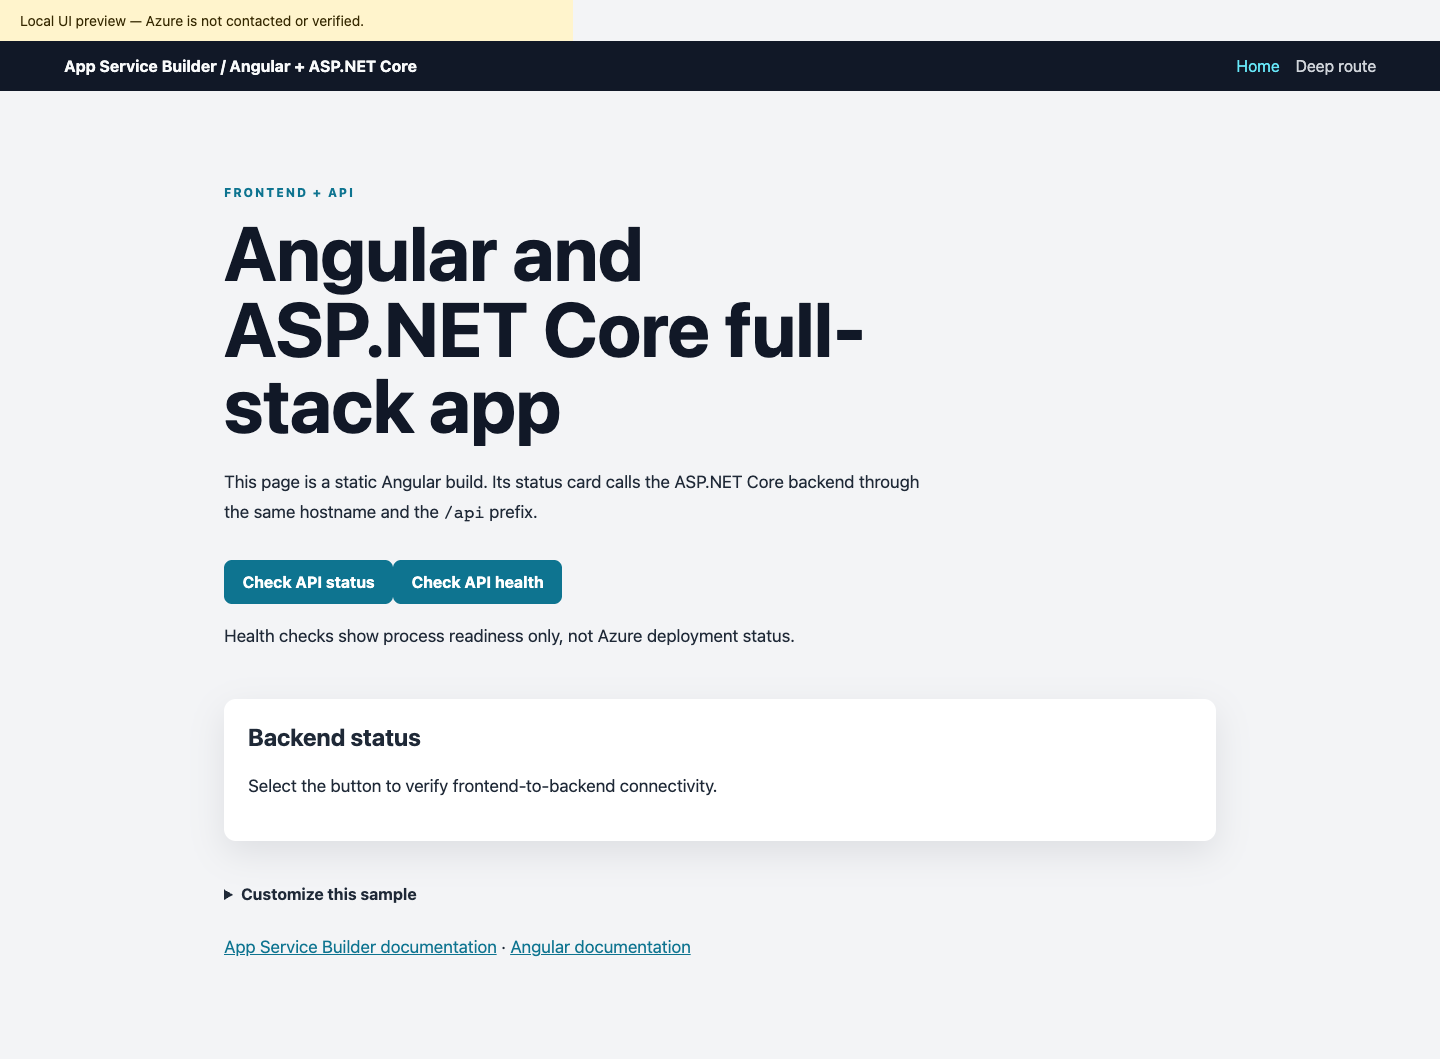
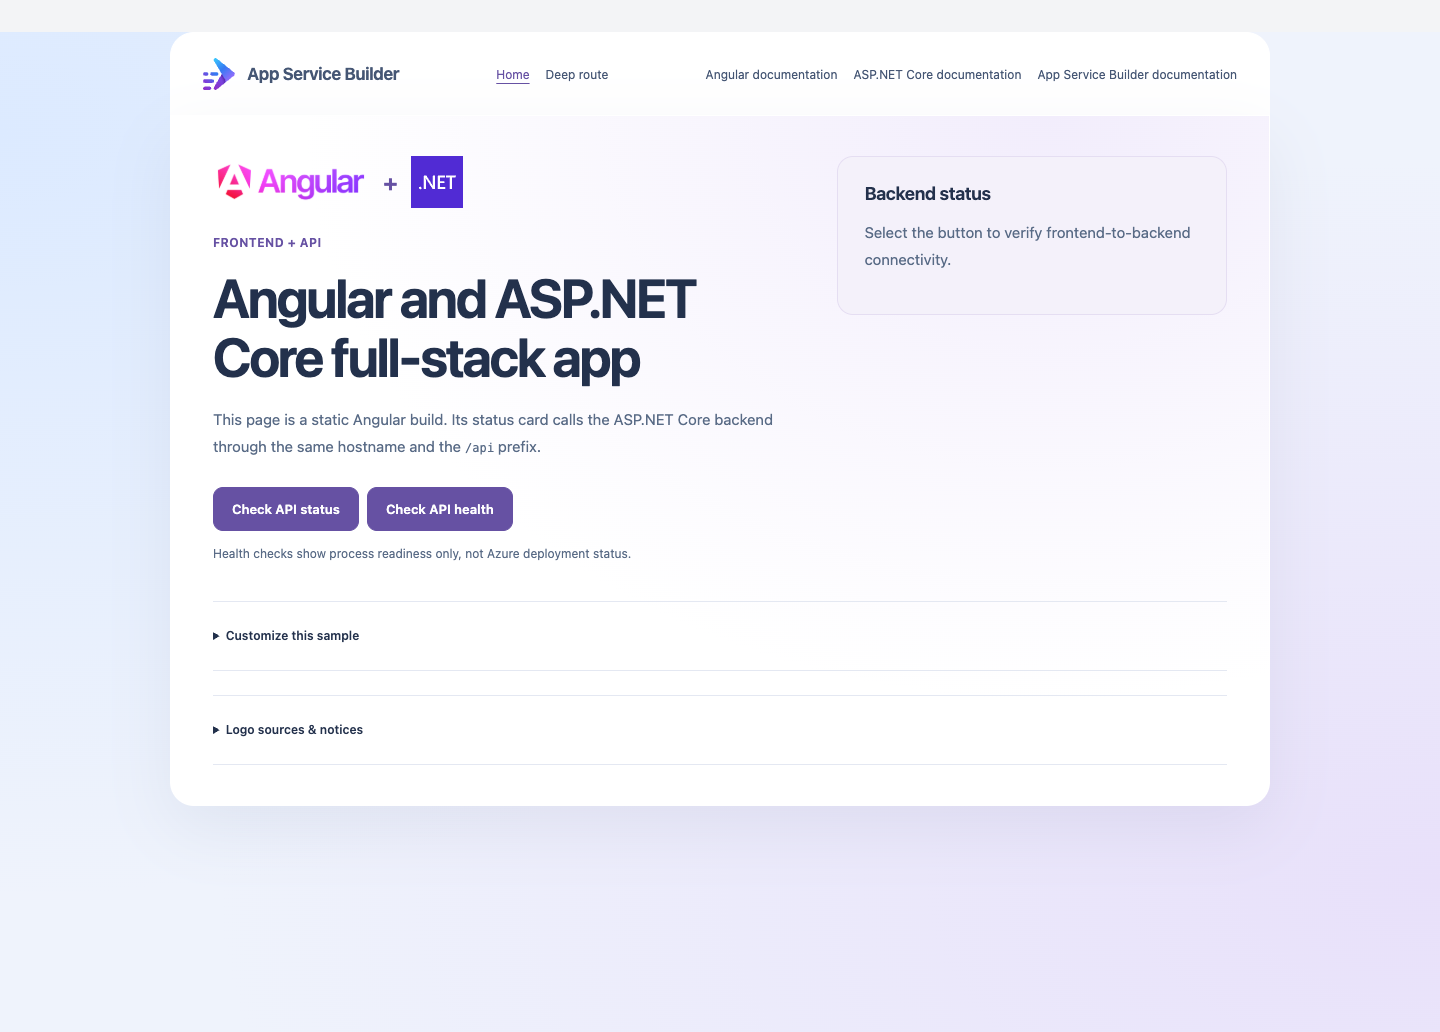
Apply approved language-family sample styling
Preserve sample interactions, inline health checks and honest customization guidance; refresh the locally rendered README screenshot.

diff --git a/web/public/brand/family.v1.css b/web/public/brand/family.v1.css
@@ -1,0 +1,40 @@
+html body{margin:0;min-height:100vh;background:radial-gradient(ellipse at 0 10%,#dceaff,transparent 60%),radial-gradient(ellipse at 100% 85%,#e8e0fa,transparent 60%),#eff3fc;color:#23314c;font-family:"Segoe UI",system-ui,sans-serif;font-size:15px;--accent:#6651a3;--line:#e4e8f2}
+app-root main.sample-sheet{width:min(1100px,calc(100% - 64px));margin:32px auto;padding:0;background:#fff;border:1px solid #ffffffbd;border-radius:0 0 24px 24px;box-shadow:0 22px 65px #3b487515;overflow:hidden}
+header.site-header.sample-header{width:min(1100px,calc(100% - 64px));margin:32px auto -33px;display:flex;align-items:center;justify-content:space-between;gap:24px;padding:25px 32px;border:1px solid #fff;border-bottom:1px solid var(--line);border-radius:24px 24px 0 0;background:#fff}
+.sample-brand{display:flex;align-items:center;gap:12px;font-size:17px;font-weight:650;letter-spacing:-.02em;color:#23314c;text-decoration:none}
+.sample-brand img{width:32px;height:32px;object-fit:contain}
+.sample-header nav{display:flex;flex-wrap:wrap;gap:16px;margin:0;font-size:12px}
+.sample-header a{color:#455674;text-underline-offset:4px}
+header.site-header.sample-header nav a{color:#455674}
+header.site-header.sample-header nav a:hover,header.site-header.sample-header nav a.active{color:var(--accent);text-decoration:underline}
+.sample-content{padding:40px 42px}
+.ecosystem-logo{display:flex;align-items:center;gap:14px;margin-bottom:24px;color:var(--accent);font-size:23px;font-weight:650;letter-spacing:-.03em}
+.ecosystem-logo img{width:52px;height:52px;object-fit:contain}
+.ecosystem-logo img.wordmark{width:156px}
+.sample-content h1{max-width:none;color:#23314c;font-size:clamp(32px,4.2vw,54px);line-height:1.1;letter-spacing:-.04em;font-weight:650;margin:0 0 20px;text-wrap:balance}
+.sample-content h2{font-size:18px;font-weight:650;letter-spacing:-.02em;margin:0 0 14px}
+.sample-content p{font-size:15px;line-height:1.8;color:#596b86}
+.sample-content .eyebrow{color:var(--accent);font-size:12px;font-weight:650;letter-spacing:.04em;margin:0 0 14px}
+.sample-content nav{display:flex;flex-wrap:wrap;align-items:center;gap:12px;margin:24px 0 16px}
+.sample-content a{color:var(--accent);text-underline-offset:4px}
+.sample-content button{min-height:44px;margin:12px 8px 0 0;padding:12px 18px;border:1px solid var(--accent);border-radius:10px;background:var(--accent);color:#fff;font:inherit;font-size:13px;font-weight:600;cursor:pointer}
+.sample-content button:hover{filter:brightness(.92);background:var(--accent)}
+.sample-content button:disabled{opacity:.6;cursor:wait}
+.sample-content dl{display:grid;gap:16px;margin:24px 0 0;padding-top:24px;border-top:1px solid var(--line);font-size:12px}
+.sample-content dl div{display:grid;grid-template-columns:90px 1fr;gap:16px}
+.sample-content dt{color:#435675;font-weight:600}
+.sample-content dd{margin:0;color:#62718a;overflow-wrap:anywhere}
+.sample-content details{margin-top:24px;padding:12px 0;border-block:1px solid var(--line);font-size:12px}
+.sample-content details p{font-size:12px}
+.sample-content summary{cursor:pointer;font-weight:600;min-height:44px;align-content:center}
+.sample-content code{font-size:12px;overflow-wrap:anywhere}
+.sample-content .documentation{font-size:12px;justify-content:space-between}
+a:focus-visible,button:focus-visible,summary:focus-visible{outline:3px solid #7660d0;outline-offset:4px}
+.sample-content{display:grid;grid-template-columns:minmax(0,1.2fr) minmax(0,.8fr);gap:0 40px;background:radial-gradient(ellipse at 80% 0,#f2edfc,transparent 60%),#fff}
+.sample-content app-home>.hero{grid-column:1}
+.sample-content>app-home{display:contents}
+.sample-content>router-outlet{display:none}
+.sample-content app-home>.status-card{grid-column:2;margin:0;padding:26px;background:#f4f1fa;border:1px solid #e5def2;border-radius:16px;box-shadow:none;align-self:start}
+.sample-content .hero>p[role=status]{font-size:12px}
+.sample-content app-home>details{grid-column:1/-1}
+@media(max-width:650px){app-root main.sample-sheet{width:calc(100% - 30px);margin:18px auto;border-radius:0 0 19px 19px}header.site-header.sample-header{width:calc(100% - 30px);margin:18px auto -19px;padding:22px;flex-wrap:wrap;gap:18px;border-radius:19px 19px 0 0}.sample-header nav{width:100%;gap:12px;font-size:11px}.sample-content{display:block;padding:32px 22px}.sample-content h1{font-size:36px}.sample-content dl div{grid-template-columns:1fr;gap:4px}.sample-content nav{align-items:stretch}.sample-content .documentation{gap:14px}.sample-content app-home>.status-card{margin:24px 0}.ecosystem-logo{flex-wrap:wrap}}

diff --git a/web/src/app/pages/home.ts b/web/src/app/pages/home.ts
@@ -11,6 +11,7 @@ type ApiStatus = {
   selector: 'app-home',
   template: `
     <section class="hero">
+      <div class="ecosystem-logo"><img class="wordmark" src="/brand/angular.png" alt="Angular" width="156" height="52"><span>+</span><img src="/brand/dotnet.svg" alt=".NET" width="52" height="52"></div>
       <p class="eyebrow">Frontend + API</p>
       <h1>Angular and ASP.NET Core full-stack app</h1>
       <p>
@@ -42,11 +43,17 @@ type ApiStatus = {
     <details>
       <summary>Customize this sample</summary>
       <p>Edit <code>web/src/app/pages/home.ts</code> in your own fork to change this page.
+        Edit <code>web/public/brand/family.v1.css</code> for its styles.
         Edit <code>api/FullstackAngularDotnet.Api/Program.cs</code> to change the API.
         Rebuild, test, commit and redeploy your fork; this page does not edit GitHub.</p>
     </details>
-    <p><a href="https://builder.appservice.azure.com/docs/">App Service Builder documentation</a>
-      · <a href="https://angular.dev/overview">Angular documentation</a></p>
+    <details>
+      <summary>Logo sources &amp; notices</summary>
+      <p>Unmodified <a href="https://angular.dev/press-kit">Angular press-kit artwork</a>
+        and <a href="https://github.com/dotnet/brand">.NET artwork</a> identify this stack.
+        Angular is a trademark of Google LLC; .NET is a trademark of Microsoft.
+        App Service Builder uses its supplied official mark. No endorsement implied.</p>
+    </details>
   `,
 })
 export class Home {

diff --git a/web/src/app/app.html b/web/src/app/app.html
@@ -1,11 +1,18 @@
-<header class="site-header">
-  <a class="brand" routerLink="/">App Service Builder / Angular + ASP.NET Core</a>
+<header class="site-header sample-header">
+  <a class="sample-brand" routerLink="/"><img src="/brand/builder.svg" alt="" width="32" height="32">App Service Builder</a>
   <nav aria-label="Primary navigation">
     <a routerLink="/" routerLinkActive="active" [routerLinkActiveOptions]="{ exact: true }">Home</a>
     <a routerLink="/products/widget-1" routerLinkActive="active">Deep route</a>
   </nav>
+  <nav aria-label="Documentation">
+    <a href="https://angular.dev/overview">Angular documentation</a>
+    <a href="https://learn.microsoft.com/aspnet/core/">ASP.NET Core documentation</a>
+    <a href="https://builder.appservice.azure.com/docs/">App Service Builder documentation</a>
+  </nav>
 </header>
 
-<main>
+<main class="sample-sheet">
+  <div class="sample-content">
   <router-outlet />
+  </div>
 </main>

diff --git a/web/src/index.html b/web/src/index.html
@@ -3,6 +3,7 @@
 <head>
   <meta charset="utf-8">
   <title>App Service Builder: Angular + ASP.NET Core sample</title>
+  <link rel="stylesheet" href="/brand/family.v1.css">
   <base href="/">
   <meta name="viewport" content="width=device-width, initial-scale=1">
   <meta name="description" content="An Angular frontend and ASP.NET Core API sharing one hostname with Azure App Service Builder.">

diff --git a/README.md b/README.md
@@ -4,7 +4,8 @@
 
 ![Angular root page with in-page API health and status controls, customization help, and separately named documentation links, rendered with the real local ASP.NET Core backend](docs/images/sample.png)
 
-Rendered locally from the production Angular build with the real ASP.NET Core
+**LOCAL — Microsoft Edge, 1440px desktop, root `/`.**
+Rendered from the production Angular build with the real ASP.NET Core
 backend. Local build, full-stack, and desktop/mobile browser checks passed;
 Azure deployment was not contacted or verified.
 
@@ -14,6 +15,22 @@ endpoint. Process readiness does not verify Azure deployment.
 Expand **Customize this sample** for the frontend and API source paths to edit
 in your own fork. Links distinguish App Service Builder documentation from
 Angular documentation; the page does not edit GitHub or guess your app URL.
+
+The Angular/.NET daylight composition preserves the real API status, inline
+health and retry feedback, and Angular Router paths. Edit
+`web/src/app/pages/home.ts` for content and `web/public/brand/family.v1.css` for
+the visual family; baseline styles remain in `web/src/styles.css`.
+ASP.NET Core documentation is separate from Builder guidance.
+
+### Logo provenance
+
+`web/public/brand/builder.svg` is the supplied official App Service Builder mark.
+`angular.png` is the unmodified [official Angular gradient wordmark](https://angular.dev/assets/images/press-kit/angular_wordmark_gradient.png)
+from the [Angular press kit](https://angular.dev/press-kit);
+`dotnet.svg` is the unmodified [official .NET SVG](https://raw.githubusercontent.com/dotnet/brand/main/logo/dotnet-logo.svg)
+from [dotnet/brand](https://github.com/dotnet/brand).
+Angular is a trademark of Google LLC; .NET is a trademark of Microsoft.
+Logos identify the stack; no endorsement is implied.
 
 A standalone Angular frontend and ASP.NET Core API deployed as two components
 behind one public hostname with
